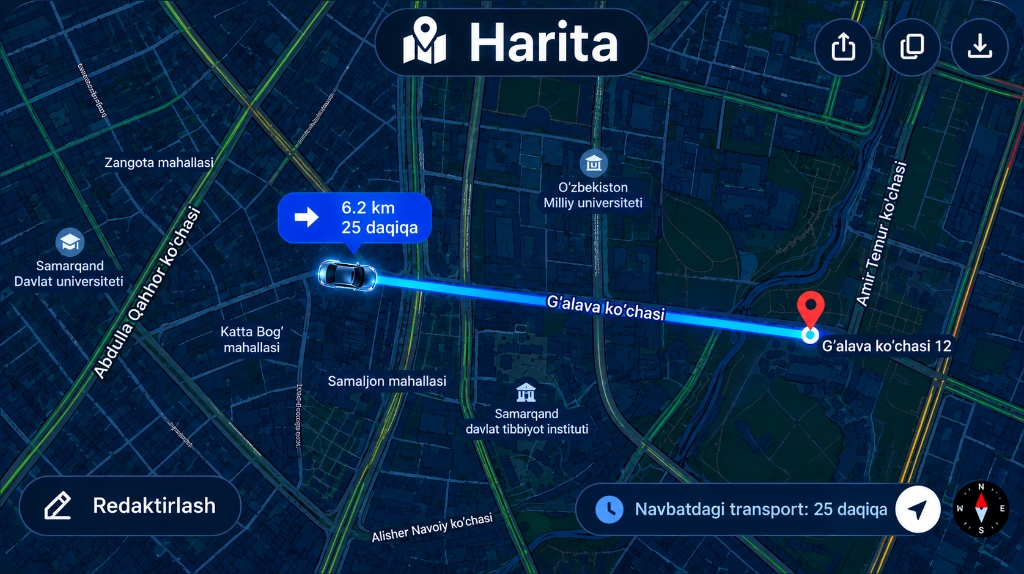
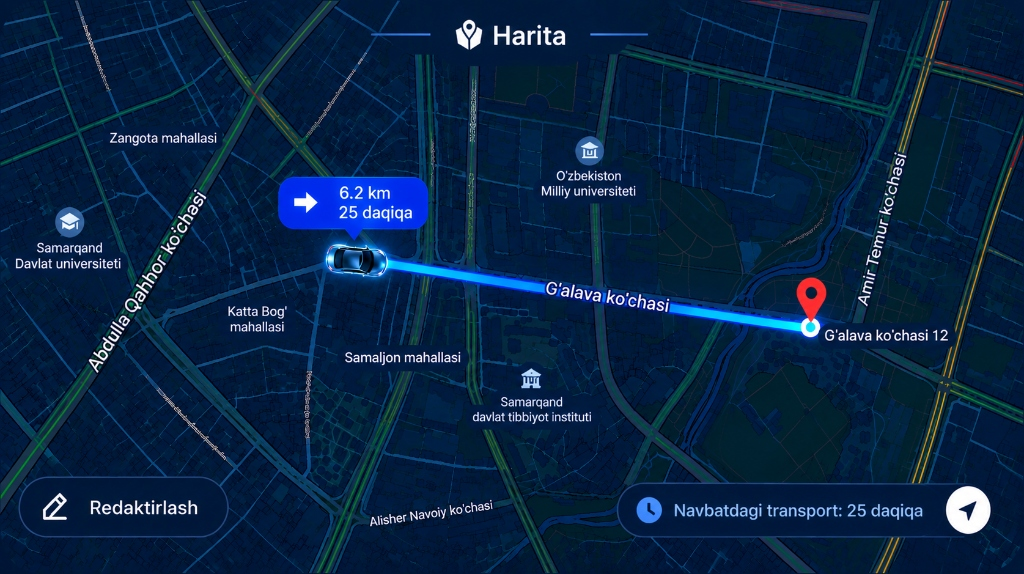
revert: replace static map image back to interactive MapView on home page

diff --git a/src/App.jsx b/src/App.jsx
@@ -489,18 +489,9 @@ export default function App() {
           <div className="tab-view fade-in">
             {/* Barchasi tanlanganda ixcham xarita ko'rsatiladi */}
             <div className={`compact-home-map-wrapper layout-padding smooth-transition ${activeCategory === 'all' ? 'show mt-3' : 'hide'}`}>
-                <div className="transition-inner">
-                    <div 
-                      className="compact-home-map-container" 
-                      onClick={() => handleTabChange('map')} 
-                      style={{ cursor: 'pointer', overflow: 'hidden' }}
-                    >
-                      <img src="/map-preview.jpg" alt="Xarita" style={{ width: '100%', height: '100%', objectFit: 'cover' }} />
-                      <div style={{ position: 'absolute', top: '50%', left: '50%', transform: 'translate(-50%, -50%)', background: 'rgba(0,0,0,0.5)', padding: '10px 20px', borderRadius: '20px', color: 'white', fontWeight: 'bold' }}>
-                        Xaritada ko'rish
-                      </div>
-                    </div>
-                  </div>
+                <div className="transition-inner"><div className="compact-home-map-container">
+                    <MapView />
+                  </div></div>
               </div>
 
             <div className="cards-stream-container layout-padding mt-4">

diff --git a/src/App.css b/src/App.css
@@ -2595,7 +2595,7 @@
     border: none !important;
     border-radius: 30px !important;
     padding: 6px !important;
-    height: auto !important;
+    height: 140px !important;
     bottom: 15px !important;
   }
   .bottom-nav-item {
